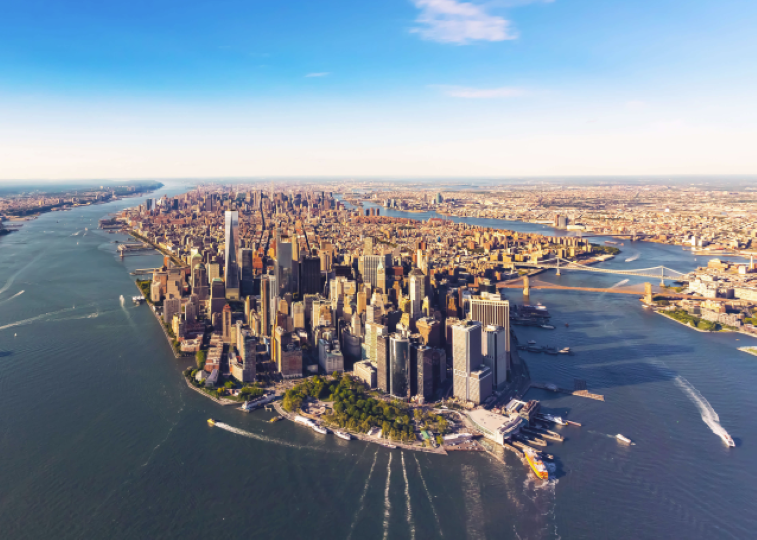
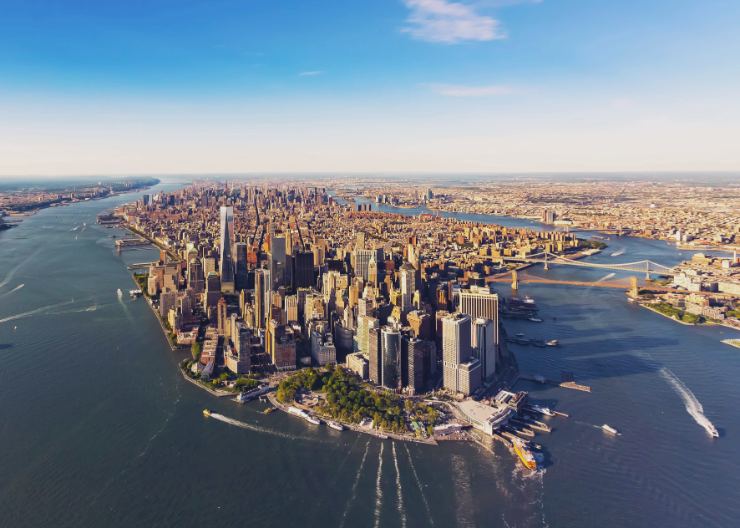
home page done

Changed region(s): [[0.1554, 0.3333, 1.0, 0.9091], [0.0, 0.3636, 0.1243, 0.4242], [0.9324, 0.7879, 0.9635, 0.8182]]

diff --git a/Index.html b/Index.html
@@ -30,13 +30,20 @@
     </div>
 
       <div class="Introduction">
-          <h1>EXPLORE DREAM DESTINATION</h1>
-          <p>it encourages exploration of unfamiliar territories, embracing diverse cultures and landscapes, while
-              pursuing the desired destination that captivates the heart and ignites a sense of wonder
-            </p>
-            <button>BOOK NOW</button>
+        <img src="/travel-Recommendation-App/Icons/icons8-vertical-line-100.png" alt="Line">
+        <h1>EXPLORE <br> DREAM  <br>DESTINATION</h1>
+        <p>it encourages exploration of unfamiliar territories, embracing diverse cultures and landscapes, while
+            pursuing the desired destination that captivates the heart and ignites a sense of wonder
+          </p>
+          <button>BOOK NOW</button>  
+          <div id="icon">
+              <svg id="X" xmlns="http://www.w3.org/2000/svg" x="0px" y="0px" width="100" height="100" viewBox="0 0 50 50" style="fill:#FFFFFF;"><path d="M 5.9199219 6 L 20.582031 27.375 L 6.2304688 44 L 9.4101562 44 L 21.986328 29.421875 L 31.986328 44 L 44 44 L 28.681641 21.669922 L 42.199219 6 L 39.029297 6 L 27.275391 19.617188 L 17.933594 6 L 5.9199219 6 z M 9.7167969 8 L 16.880859 8 L 40.203125 42 L 33.039062 42 L 9.7167969 8 z"></path></svg>
+              <svg id="facebook" xmlns="http://www.w3.org/2000/svg" x="0px" y="0px" width="100" height="100" viewBox="0,0,300,150" style="fill:#FFFFFF;"> <g fill="#ffffff" fill-rule="nonzero" stroke="none" stroke-width="1" stroke-linecap="butt" stroke-linejoin="miter" stroke-miterlimit="10" stroke-dasharray="" stroke-dashoffset="0" font-family="none" font-weight="none" font-size="none" text-anchor="none" style="mix-blend-mode: normal"><g transform="scale(8.53333,8.53333)"><path d="M12,27v-12h-4v-4h4v-2.148c0,-4.067 1.981,-5.852 5.361,-5.852c1.619,0 2.475,0.12 2.88,0.175v3.825h-2.305c-1.435,0 -1.936,0.757 -1.936,2.291v1.709h4.205l-0.571,4h-3.634v12z"></path></g></g></svg>
+              <svg  id="Instagram" xmlns="http://www.w3.org/2000/svg" x="0px" y="0px" width="100" height="100" viewBox="0,0,300,150" style="fill:#FFFFFF;"><g fill="#ffffff" fill-rule="nonzero" stroke="none" stroke-width="1" stroke-linecap="butt" stroke-linejoin="miter" stroke-miterlimit="10" stroke-dasharray="" stroke-dashoffset="0" font-family="none" font-weight="none" font-size="none" text-anchor="none" style="mix-blend-mode: normal"><g transform="scale(5.33333,5.33333)"><path d="M15,4c-6.06341,0 -11,4.93659 -11,11v18c0,6.06341 4.93659,11 11,11h18c6.06341,0 11,-4.93659 11,-11v-18c0,-6.06341 -4.93659,-11 -11,-11zM15,6h18c4.98259,0 9,4.01741 9,9v18c0,4.98259 -4.01741,9 -9,9h-18c-4.98259,0 -9,-4.01741 -9,-9v-18c0,-4.98259 4.01741,-9 9,-9zM35,11c-1.105,0 -2,0.895 -2,2c0,1.105 0.895,2 2,2c1.105,0 2,-0.895 2,-2c0,-1.105 -0.895,-2 -2,-2zM24,14c-5.51133,0 -10,4.48867 -10,10c0,5.51133 4.48867,10 10,10c5.51133,0 10,-4.48867 10,-10c0,-5.51133 -4.48867,-10 -10,-10zM24,16c4.43067,0 8,3.56933 8,8c0,4.43067 -3.56933,8 -8,8c-4.43067,0 -8,-3.56933 -8,-8c0,-4.43067 3.56933,-8 8,-8z"></path></g></g></svg>
+              <svg  id="Youtube" xmlns="http://www.w3.org/2000/svg" x="0px" y="0px" width="100" height="100" viewBox="0,0,300,150" style="fill:#FFFFFF;"> <g fill="#ffffff" fill-rule="nonzero" stroke="none" stroke-width="1" stroke-linecap="butt" stroke-linejoin="miter" stroke-miterlimit="10" stroke-dasharray="" stroke-dashoffset="0" font-family="none" font-weight="none" font-size="none" text-anchor="none" style="mix-blend-mode: normal"><g transform="scale(5.12,5.12)"><path d="M44.89844,14.5c-0.39844,-2.19922 -2.29687,-3.80078 -4.5,-4.30078c-3.29687,-0.69922 -9.39844,-1.19922 -16,-1.19922c-6.59766,0 -12.79687,0.5 -16.09766,1.19922c-2.19922,0.5 -4.10156,2 -4.5,4.30078c-0.40234,2.5 -0.80078,6 -0.80078,10.5c0,4.5 0.39844,8 0.89844,10.5c0.40234,2.19922 2.30078,3.80078 4.5,4.30078c3.5,0.69922 9.5,1.19922 16.10156,1.19922c6.60156,0 12.60156,-0.5 16.10156,-1.19922c2.19922,-0.5 4.09766,-2 4.5,-4.30078c0.39844,-2.5 0.89844,-6.10156 1,-10.5c-0.20312,-4.5 -0.70312,-8 -1.20312,-10.5zM19,32v-14l12.19922,7z"></path></g></g></svg>
+           </div>
+      
         </div>
-
      </div>
 </body>
 </html>

diff --git a/travel_recommendation.css b/travel_recommendation.css
@@ -9,7 +9,7 @@ html, body{
     box-sizing: border-box;
 }
 body{
-    color: white;
+    color: rgb(255, 255, 255);
   
 }
 nav {
@@ -92,6 +92,7 @@ nav input::placeholder {
     right: 20px;
 
 }
+
 #background-img{
     background-image: url("/travel-Recommendation-App/Images/nyc.png");
     position: relative;
@@ -100,10 +101,69 @@ nav input::placeholder {
     background-repeat: no-repeat;
     background-size: cover;
     height: 100vh; /* Use viewport height */
-    width: 100vw;  /* Use viewport width */
-    
+    width: 100vw;  /* Use viewport  width */
+
+}
+#background-img::before {
+    content: '';
+    position: absolute;
+    top: 45px;
+    left: 0;
+    width: 100%;
+    height: 95%;
+    background: linear-gradient(to right, rgba(2, 112, 129, 0.7), rgba(2, 112, 129, 0));
+
 }
 
 .Introduction {
     margin-top: 50px;
+ 
+    
 }
+
+.Introduction img{
+    position: relative;
+    height: 180px;
+    width: 30px;
+    display: block;
+}
+
+.Introduction h1{
+  font-size: 1.7rem;
+  
+}
+
+.Introduction p{
+font-size: 0.8rem;
+width: 60%;
+font-family:'Gill Sans', 'Gill Sans MT', Calibri, 'Trebuchet MS', sans-serif
+font-weight: 100;
+
+}
+
+.Introduction button{
+    color: white;
+    background-color: rgb(2, 112, 129);
+    border: none;
+    font-size: 0.7rem;
+    font-weight: bold;
+    padding: 5px 15px;
+}
+
+.Introduction h1, .Introduction p, .Introduction button{
+    position: relative;
+    margin-left: 50px;
+    margin-bottom: 55px;
+    bottom: 80px;
+}
+
+#X, #Instagram, #facebook, #Youtube{
+    position: relative;
+    display: block;
+    height: 38px;
+    width: 21px;
+    margin-top: 10px;
+    bottom: 340px;
+    left: 10px;
+}
+
